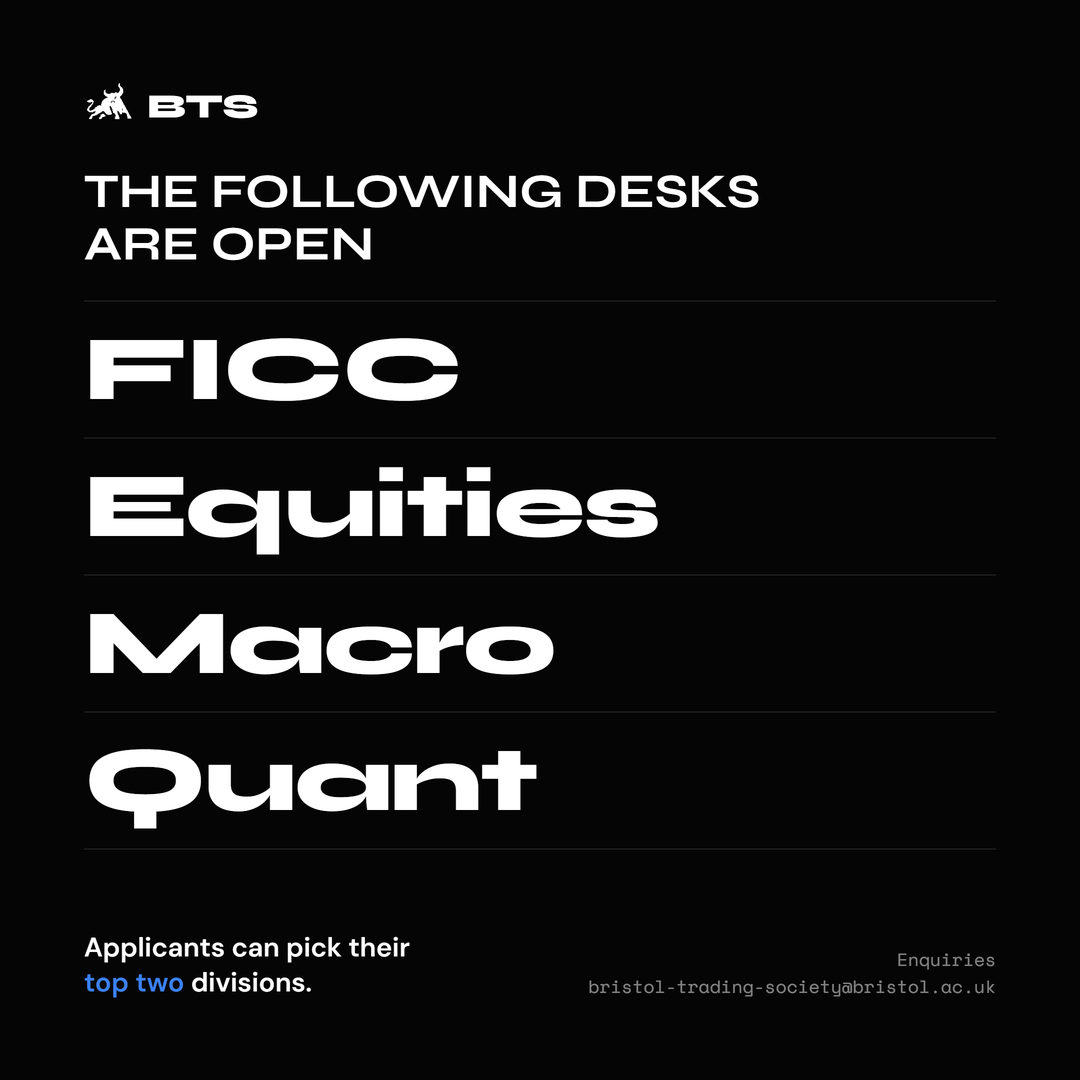
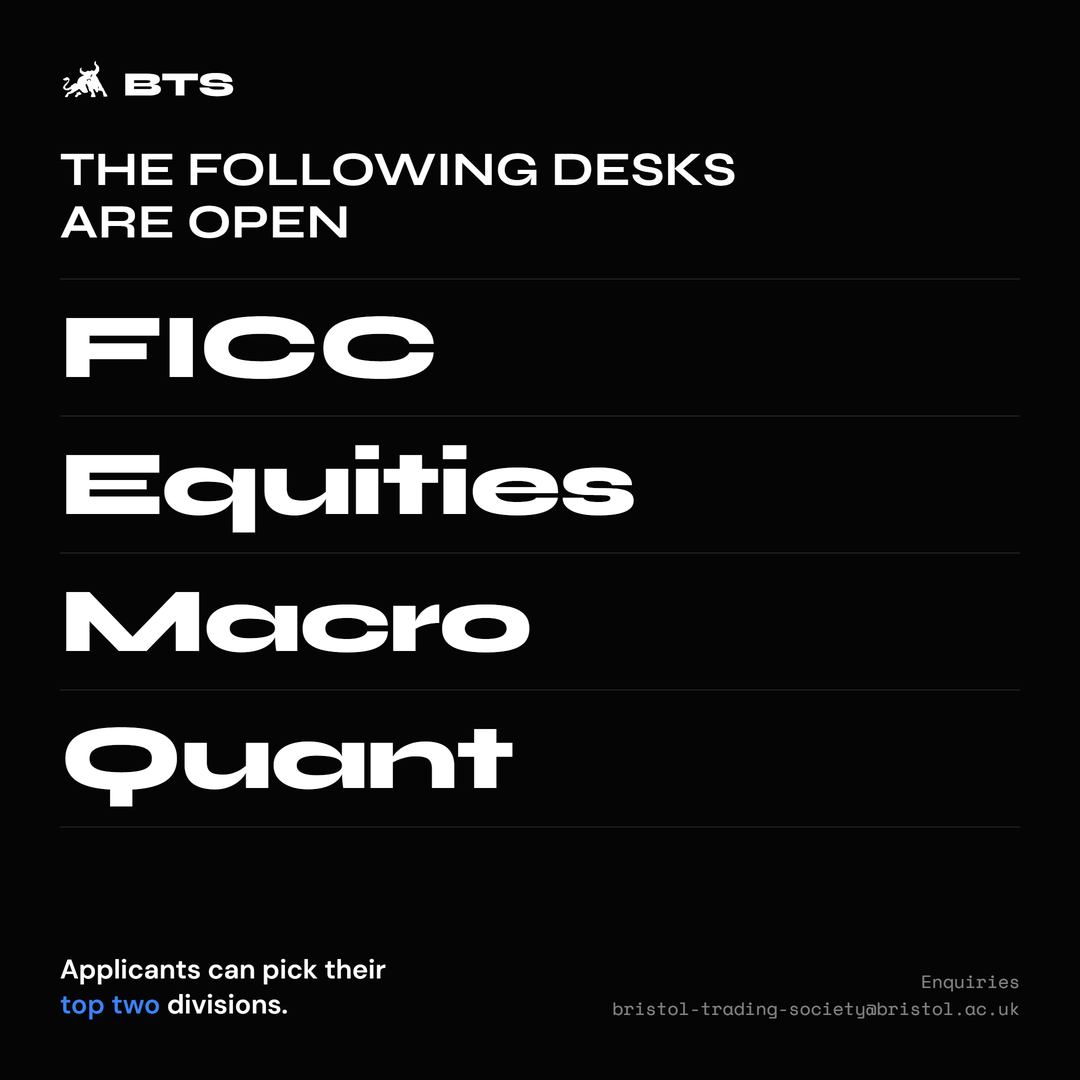
Match export spacing/sizing to Claude Design showcase
- Reduce oversized 80-84px padding to ~60px across all three frames so the
  type sits closer to the edges like the reference.
- Launch: 4-line headline (Our / new / website / is live.) at 150px to fill
  the frame instead of the shrunken 3-line version.
- Page 1: headline up to 96px with the tighter padding.

diff --git a/exports/launch-square.html b/exports/launch-square.html
@@ -47,7 +47,7 @@
     z-index: 1;
     width: 100%;
     height: 100%;
-    padding: 80px 84px;
+    padding: 58px 60px;
     display: flex;
     flex-direction: column;
   }
@@ -67,8 +67,8 @@
   .headline {
     font-family: 'Syne', sans-serif;
     font-weight: 800;
-    font-size: 132px;
-    line-height: 0.98;
+    font-size: 150px;
+    line-height: 0.95;
     letter-spacing: -0.035em;
     white-space: nowrap;
     margin-top: auto;
@@ -113,7 +113,7 @@
         <span class="logo__bts">BTS</span>
       </div>
 
-      <h1 class="headline">Our new<br>website<br>is live.</h1>
+      <h1 class="headline">Our<br>new<br>website<br>is live.</h1>
 
       <div class="pill">
         <span class="pill__dot"></span>

diff --git a/exports/divhead-page1.html b/exports/divhead-page1.html
@@ -26,7 +26,7 @@
 
   .content {
     position:relative; z-index:1; width:100%; height:100%;
-    padding:78px 80px; display:flex; flex-direction:column;
+    padding:58px 60px; display:flex; flex-direction:column;
   }
 
   .logo { display:flex; align-items:flex-end; gap:13px; }
@@ -36,8 +36,8 @@
 
   .headline {
     font-family:'Syne'; font-weight:800; color:#0b1220;
-    font-size:92px; line-height:0.96; letter-spacing:-0.035em;
-    margin-top:54px;
+    font-size:96px; line-height:0.96; letter-spacing:-0.035em;
+    margin-top:44px;
   }
 
   .sub {

diff --git a/exports/divhead-page2.html b/exports/divhead-page2.html
@@ -15,7 +15,7 @@
   .frame {
     position:relative; width:1080px; height:1080px;
     background:#050505; overflow:hidden; color:#ffffff;
-    padding:80px 84px; display:flex; flex-direction:column;
+    padding:58px 60px; display:flex; flex-direction:column;
   }
 
   .logo { display:flex; align-items:flex-end; gap:13px; }